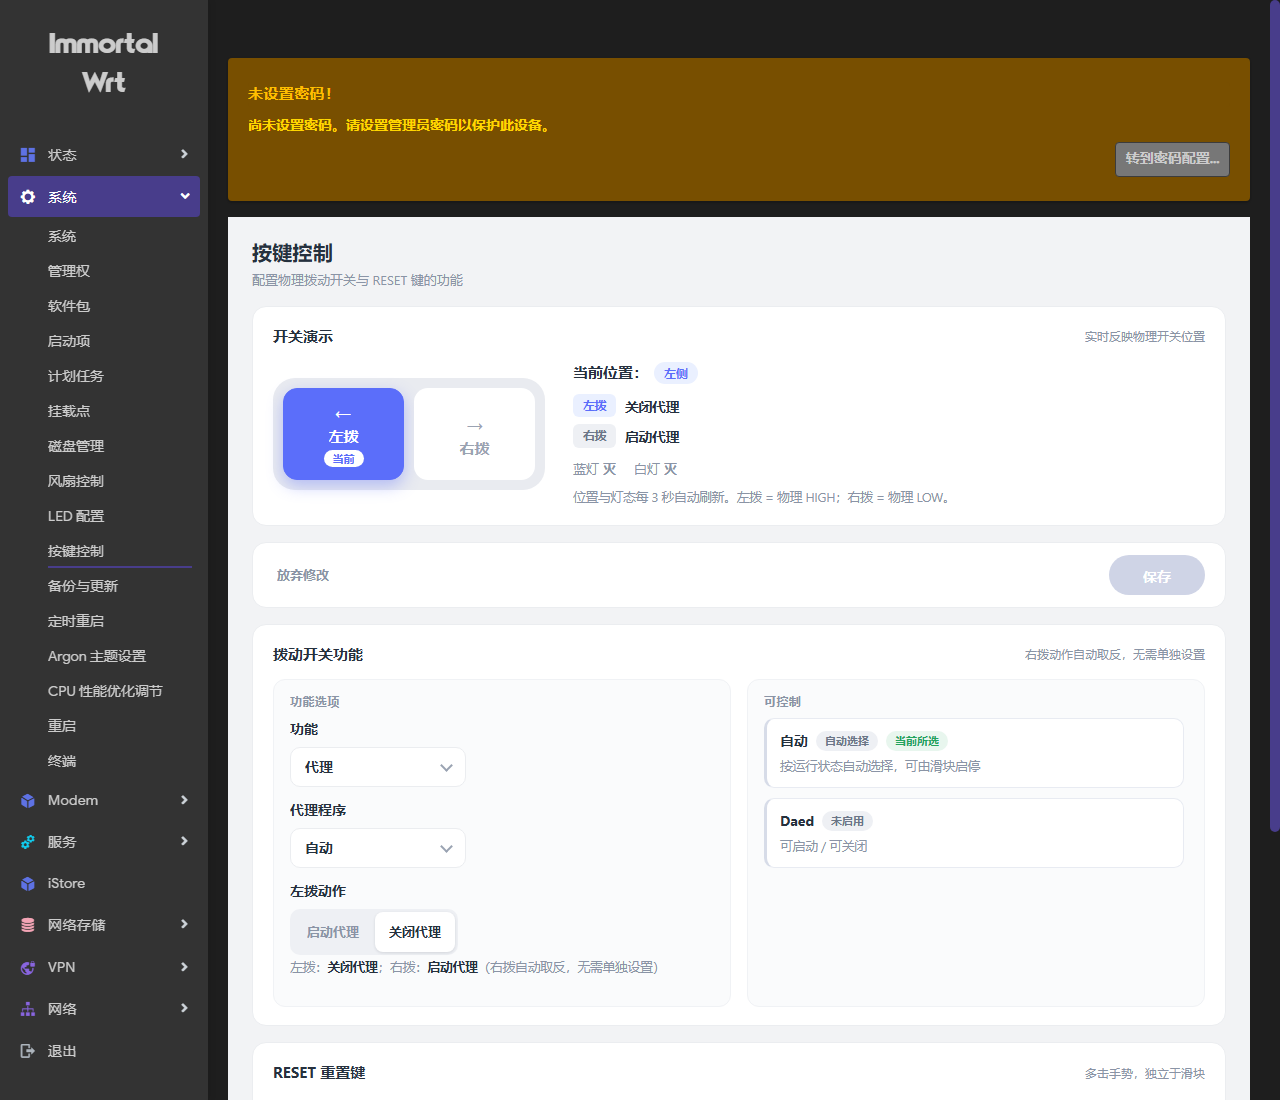
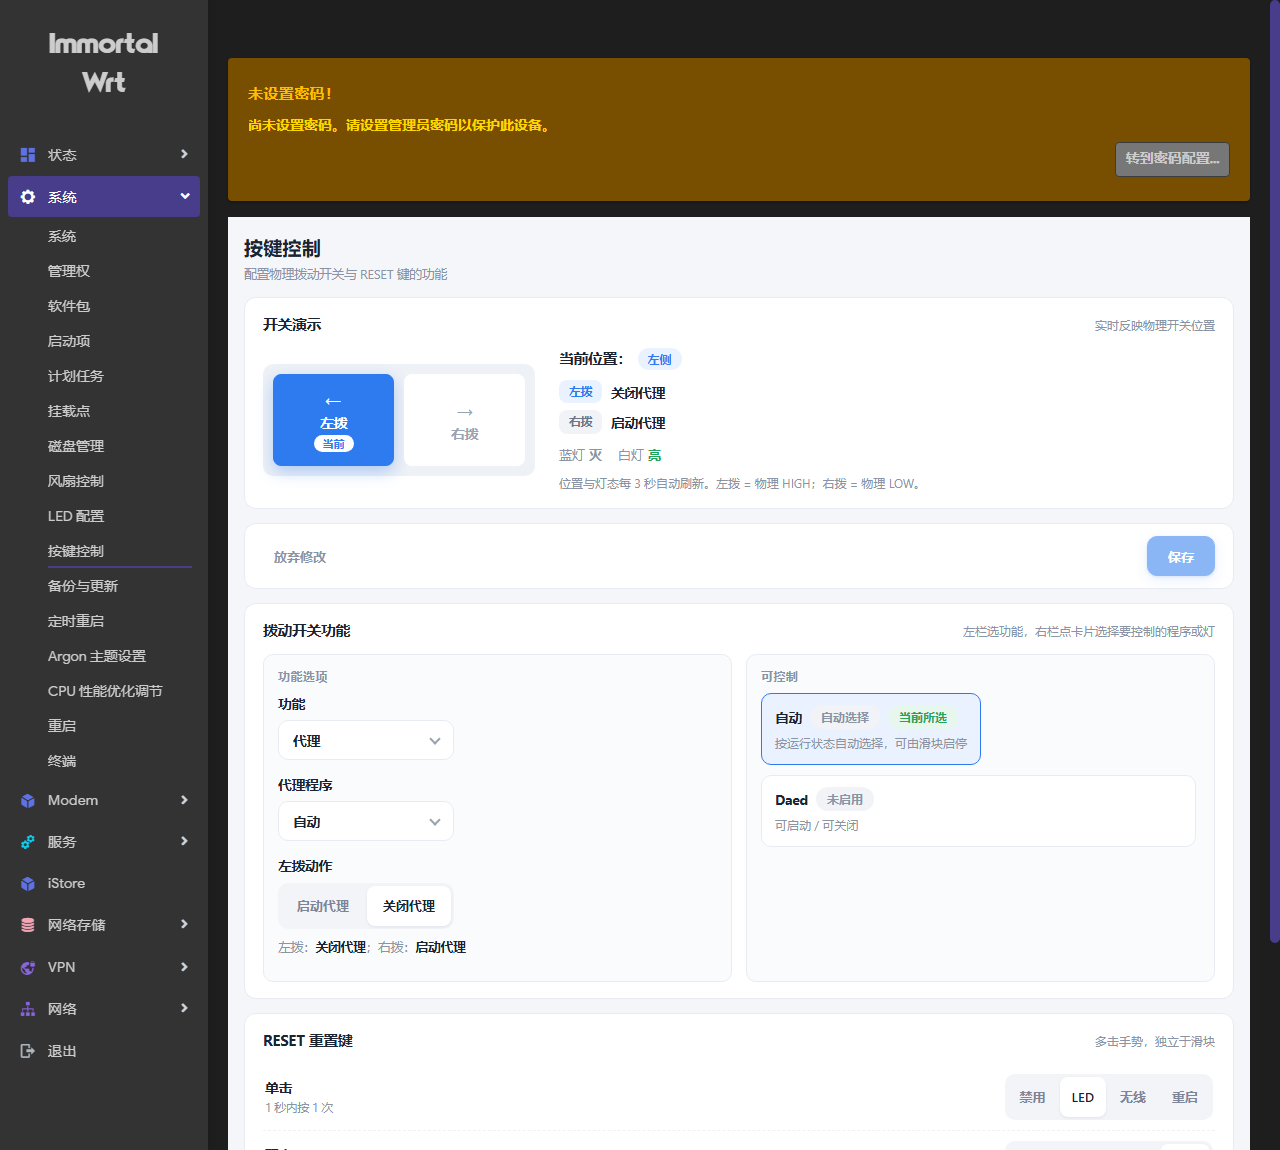
修复白灯无法控制；视觉规范对齐风扇控制页
修复：
- 【根因】控制器 save() 从未写入 led_name，页面选白灯保存后仍是旧值
- valid_leds() 新增：只接受 /sys/class/leds 里真实存在的灯名，去重后落盘
- 【ucode 坑】`for (let x in 数组)` 遍历出的是元素值不是下标，
  写成 known[x] == part 会全部落空 → 每个灯名都被判非法并回退 known[0]，
  这正是「选白灯保存后还是蓝灯」的直接原因。改为直接比 x == part

交互：
- 左栏代理下拉列出全部 9 个候选（自动 + 8 插件），且只显示程序名不显示状态
- 右栏「可控制」只列检测到的（proxies_detected），条目可直接点击选择
- 删掉「（右拨自动取反，无需单独设置）」附注
- RESET 的「蓝灯」全部改为「LED」，说明改为「按当前状态切换受控 LED 的亮灭」

视觉（与 fancontrol.ut 同一套设计令牌）：
- 圆角统一四档 --r-card/--r-box/--r-ctl/--r-pill，删掉所有临时圆角值
- 配色换 --brand #2e7bf0 / --brand-soft / --ok-soft / --warn / --hot
- 分段控件改为浅灰凹槽 + 选中白色浮起小块（去掉蓝色实心）
- 保存按钮改 .btn.primary，未保存时转琥珀色 .dirty
- 右栏条目去掉彩色左边框，改为统一轻卡片 + 选中浅蓝底描边

diff --git a/www/luci-static/resources/mt3600be-toggle/toggle.js b/www/luci-static/resources/mt3600be-toggle/toggle.js
@@ -20,7 +20,7 @@
         ssrplus: 'SSR Plus+', nikki: 'Nikki', daed: 'Daed', homeproxy: 'HomeProxy', mihomo: 'Mihomo'
     };
     var PROXY_STATE = {
-        running: { t: '运行中', c: 'running' },
+        running: { t: '运行中', c: 'run' },
         installed: { t: '未启用', c: 'idle' },
         error: { t: '配置已开·未运行', c: 'err' },
         conflict: { t: '检测到多个', c: 'conf' },
@@ -107,20 +107,25 @@
         if (s.indexOf('amber') >= 0 || s.indexOf('orange') >= 0) return '橙灯';
         return n;
     }
-    /* 检测到的代理列表（后端已过滤掉未安装的） */
+    /* 左栏下拉用：全量候选（自动 + 8 个插件，装没装都列出来） */
     function proxyList() {
+        return (CFG.proxies && CFG.proxies.length) ? CFG.proxies : INIT.proxies;
+    }
+    /* 右栏「可控制」用：后端已过滤，只剩检测到的 */
+    function proxyDetected() {
+        if (CFG.proxies_detected && CFG.proxies_detected.length) return CFG.proxies_detected;
         return (CFG.proxies && CFG.proxies.length) ? CFG.proxies : INIT.proxies;
     }
     /* 默认选中正在运行的代理 */
     function runningProxy() {
-        var list = proxyList(), i;
+        var list = proxyDetected(), i;
         for (i = 0; i < list.length; i++)
             if (list[i].state === 'running' && list[i].target !== 'auto') return list[i].target;
         return null;
     }
     function applyProxyDefault() {
         if (CFG.proxy_target && CFG.proxy_target !== 'auto') {
-            var list = proxyList(), i, inList = false;
+            var list = proxyDetected(), i, inList = false;
             for (i = 0; i < list.length; i++) if (list[i].target === CFG.proxy_target) inList = true;
             if (inList) return;          /* 已选且仍在检测列表里，尊重用户选择 */
         }
@@ -163,21 +168,19 @@
         setSegActive('actSeg', cur ? '1' : '0');
         if (note)
             note.innerHTML = '左拨：<b>' + esc(actText(f, cur)) + '</b>；右拨：<b>'
-                + esc(actText(f, !cur)) + '</b>（右拨自动取反，无需单独设置）';
+                + esc(actText(f, !cur)) + '</b>';
     }
 
-    /* 代理下拉：只列出后端实际检测到的插件 */
+    /* 左栏代理下拉：全量候选，装没装都列出来。
+       按用户要求只显示程序名，**不显示任何状态** —— 状态统一放右栏「可控制」。 */
     function renderProxySel() {
         var menu = $('proxyMenu'), list = proxyList();
         var html = '', i, p;
         for (i = 0; i < list.length; i++) {
             p = list[i];
             var nm = PROXY_NAME[p.target] || p.target;
-            var tag = (p.state === 'running') ? '（运行中）'
-                : (p.state === 'installed' ? '（未启用）'
-                    : (p.state === 'error' ? '（异常）' : ''));
-            html += '<div class="opt" data-v="' + esc(p.target) + '" onclick="pickProxy(\'' + esc(p.target) + '\')">'
-                + esc(nm) + esc(tag) + '</div>';
+            html += '<div class="opt" data-v="' + esc(p.target)
+                + '" onclick="pickProxy(\'' + esc(p.target) + '\')">' + esc(nm) + '</div>';
         }
         menu.innerHTML = html;
         $('proxyLabel').textContent = PROXY_NAME[CFG.proxy_target] || CFG.proxy_target;
@@ -222,7 +225,7 @@
 
         if (f === 'wifi') {
             box.innerHTML =
-                '<div class="cap ok">' +
+                '<div class="cap">' +
                 '<div class="cap-h"><span class="cap-n">无线网络</span><span class="pill idle">2.4G + 5G</span></div>' +
                 '<div class="cap-d">左拨：' + esc(actText(f, leftAction(f))) + '　·　右拨：' + esc(actText(f, !leftAction(f))) +
                 '<br>关闭时会保存当前各射频的启停状态，重新打开时按快照恢复（含失败自愈重试）。</div></div>';
@@ -231,7 +234,7 @@
 
         if (f === 'led') {
             box.innerHTML =
-                '<div class="cap ok">' +
+                '<div class="cap">' +
                 '<div class="cap-h"><span class="cap-n">可控制的灯</span></div>' +
                 '<div class="ledpicks">' + ledPickHtml() + '</div>' +
                 '<div class="cap-d" style="margin-top:9px">点击灯名可多选，蓝灯和白灯都能单独控制。' +
@@ -240,8 +243,8 @@
             return;
         }
 
-        /* 代理：只列出检测到的插件，并标注可控性 */
-        var list = proxyList(), k, p;
+        /* 代理：只列出检测到的插件，卡片可直接点击选择 */
+        var list = proxyDetected(), k, p;
         if (!list.length) {
             box.innerHTML = '<div class="cap-empty">未检测到任何代理插件。</div>';
             return;
@@ -252,21 +255,28 @@
             var st = PROXY_STATE[p.state] || PROXY_STATE.installed;
             var ctrl = '可启动 / 可关闭';
             if (p.target === 'auto')
-                ctrl = '按运行状态自动选择，可由滑块启停';
+                ctrl = '点此选择：按运行状态自动挑一个代理，可由滑块启停';
             else if (p.state === 'not_installed')
                 ctrl = '未安装，无法控制';
             else if (p.state === 'conflict')
                 ctrl = '检测到多个插件同时运行，无法确定控制目标';
-            var cls = p.state === 'running' ? 'ok'
-                : (p.state === 'not_installed' ? 'bad' : (p.state === 'conflict' ? 'warn' : ''));
-            html += '<div class="cap ' + cls + '">' +
+            var sel = (CFG.proxy_target === p.target);
+            html += '<div class="cap pick' + (sel ? ' sel' : '') + '"'
+                + ' data-proxy="' + esc(p.target) + '">' +
                 '<div class="cap-h"><span class="cap-n">' + esc(nm) + '</span>' +
                 '<span class="pill ' + st.c + '">' + st.t + '</span>' +
-                (CFG.proxy_target === p.target ? '<span class="pill running">当前所选</span>' : '') +
+                (sel ? '<span class="pill run">当前所选</span>' : '') +
                 '</div>' +
                 '<div class="cap-d">' + esc(ctrl) + '</div></div>';
         }
         box.innerHTML = html;
+        wireProxyPicks();
+    }
+
+    function wireProxyPicks() {
+        var cards = document.querySelectorAll('#capBox .cap.pick'), i;
+        for (i = 0; i < cards.length; i++)
+            cards[i].onclick = function () { pickProxy(this.getAttribute('data-proxy')); };
     }
 
     function applyUI() {
@@ -347,10 +357,10 @@
     function updateDirty() {
         var d = isDirty(), btn = $('btnApply');
         if (d) {
-            btn.classList.add('on'); btn.disabled = false;
+            btn.classList.add('dirty'); btn.disabled = false;
             $('dirtyNote').style.display = 'inline-flex';
         } else {
-            btn.classList.remove('on'); btn.disabled = true;
+            btn.classList.remove('dirty'); btn.disabled = true;
             $('dirtyNote').style.display = 'none';
         }
     }
@@ -398,6 +408,7 @@
         CFG.blue_led = d.blue_led;
         CFG.white_led = d.white_led;
         if (d.proxies) CFG.proxies = d.proxies;
+        if (d.proxies_detected) CFG.proxies_detected = d.proxies_detected;
         if (d.leds) CFG.leds = d.leds;
         if (isDirty()) return;
         CFG.led_enabled = d.led_enabled;
